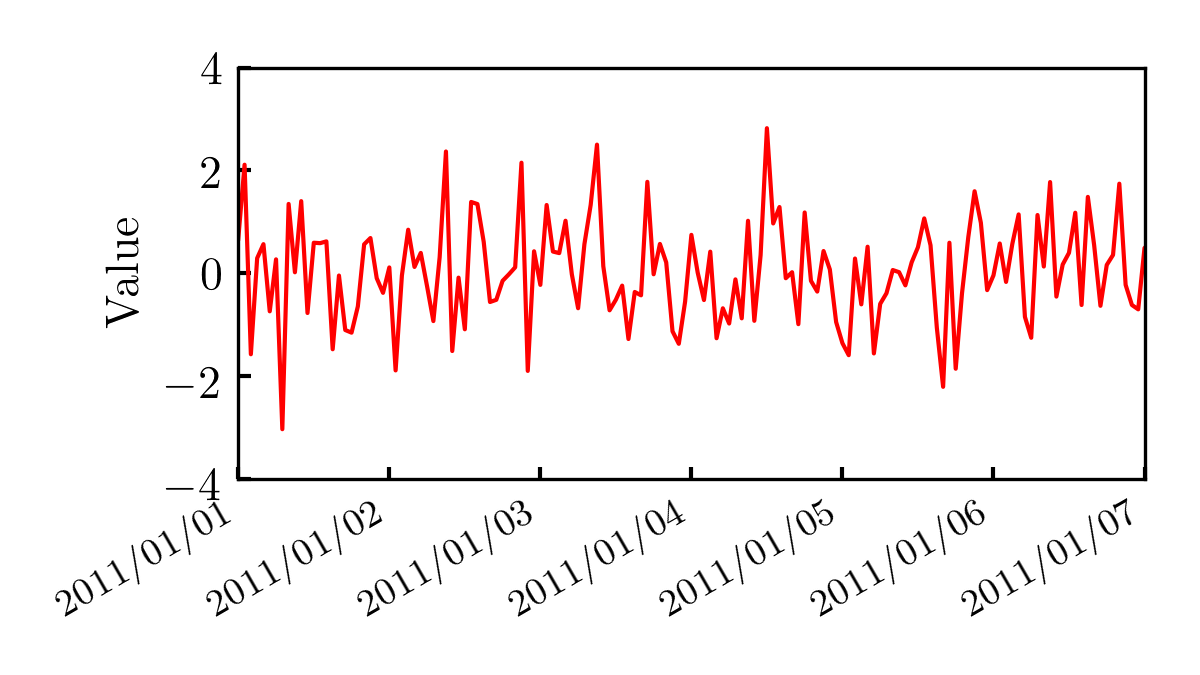
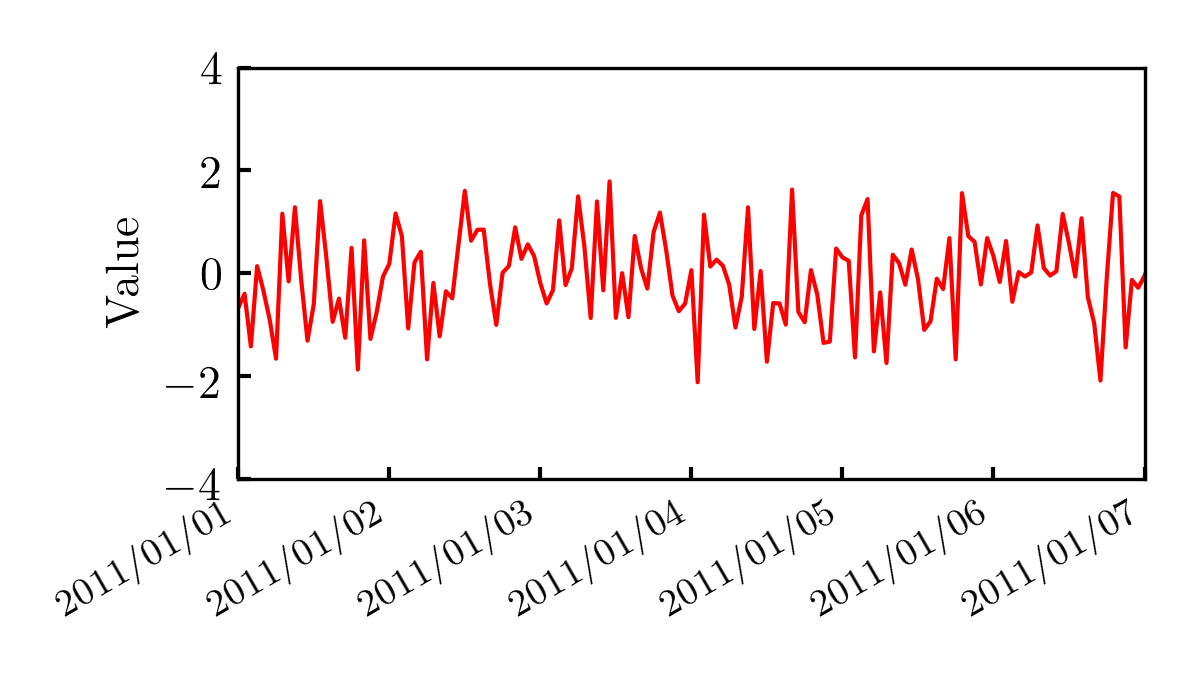
more legend opts

Changed region(s): [[0.185, 0.1867, 0.9558, 0.6222]]

diff --git a/fastplot/__init__.py b/fastplot/__init__.py
@@ -30,12 +30,12 @@ CYCLER_POINTS_BLACK=(cycler('color', ['black', 'black', 'black', 'black', 'black
 
 
 def plot(data, path, mode = 'line',
-         style = 'sans-serif', figsize = FIGSIZE, cycler = CYCLER_LINES, fontsize = 11, dpi=300,
+         style = 'sans-serif', figsize = FIGSIZE, cycler = CYCLER_LINES, fontsize = 11, dpi=300, classic_autolimit=True,
          grid = False, grid_which='major', grid_axis = 'both', grid_linestyle = 'dotted', grid_color = 'black',
          yscale = 'linear' , xscale = 'linear',
          xlim = None, ylim = None, xlabel = None, ylabel = None, xticks = None, yticks = None, xticks_rotate = None, yticks_rotate = None, xticks_fontsize='medium', yticks_fontsize='medium', 
          xtick_direction = 'in', xtick_width = 1, xtick_length = 3, ytick_direction = 'in', ytick_width = 1, ytick_length = 3, 
-         legend = False, legend_loc = 'best', legend_ncol = 1, legend_fontsize = 'medium', legend_border = False, legend_frameon = True,
+         legend = False, legend_loc = 'best', legend_ncol = 1, legend_fontsize = 'medium', legend_border = False, legend_frameon = True, legend_fancybox = False, legend_alpha=1.0,
          linewidth = 1, boxplot_sym='', boxplot_whis=[5,95], timeseries_format='%Y/%m/%d', bars_width=0.6,
          callback = None ):
 
@@ -54,9 +54,10 @@ def plot(data, path, mode = 'line',
     plt.rc('font', **{'size': fontsize})
 
     # Old default axis lim
-    plt.rcParams['axes.autolimit_mode'] = 'round_numbers'
-    plt.rcParams['axes.xmargin'] = 0
-    plt.rcParams['axes.ymargin'] = 0
+    if classic_autolimit:
+        plt.rcParams['axes.autolimit_mode'] = 'round_numbers'
+        plt.rcParams['axes.xmargin'] = 0
+        plt.rcParams['axes.ymargin'] = 0
 
     # 2. Set axis characteristics
     plt.yscale(yscale)
@@ -173,9 +174,10 @@ def plot(data, path, mode = 'line',
 
     # 5. Legend
     if legend:
-        legend = plt.legend(loc=legend_loc, ncol = legend_ncol, fontsize = legend_fontsize, numpoints=1, frameon = legend_frameon)
+        legend = plt.legend(loc=legend_loc, ncol = legend_ncol, fontsize = legend_fontsize, numpoints=1, frameon = legend_frameon, fancybox=legend_fancybox)
         if legend_border == False:
             legend.get_frame().set_linewidth(0.0)
+        legend.get_frame().set_alpha(legend_alpha)
 
 
     # 6. Save Fig

diff --git a/README.md b/README.md
@@ -55,6 +55,7 @@ The modes are the type of plots fastplot allows to use. Some are simple (just a 
 * `cycler`: the style cycler to use. By default, it changes across main colors, and different linestyles. Change it if you want to change color, line, or point style. I provide some useful cycler in the code (see Cycler section). Default `CYCLER_LINES`
 * `fontsize`: just the overall font size. Default `11`
 * `dpi`: DPI for the output image. Default `300`
+* `classic_autolimit`: Use classic autolimit feature (find 'nice' round numbers as view limits that enclosed the data limits), instead of v2 (sets the view limits to 5% wider than the data range). Default `True`
 
 **Grid**
 * `grid`: whether to display grid. Default `False`
@@ -92,6 +93,8 @@ The modes are the type of plots fastplot allows to use. Some are simple (just a 
 * `legend_fontsize`: legend fontsize. Default `medium`
 * `legend_border`: whether to show legend border. Default `False`
 * `legend_frameon`: whether to show legend frame. Default `True`
+* `legend_fancybox`: whether to use round corner on legend frame. Default `False`
+* `legend_frameon`: Transparency of legend frame. Default `1.0`
 
 **Specific**
 This arguments are specific for some `modes`.
